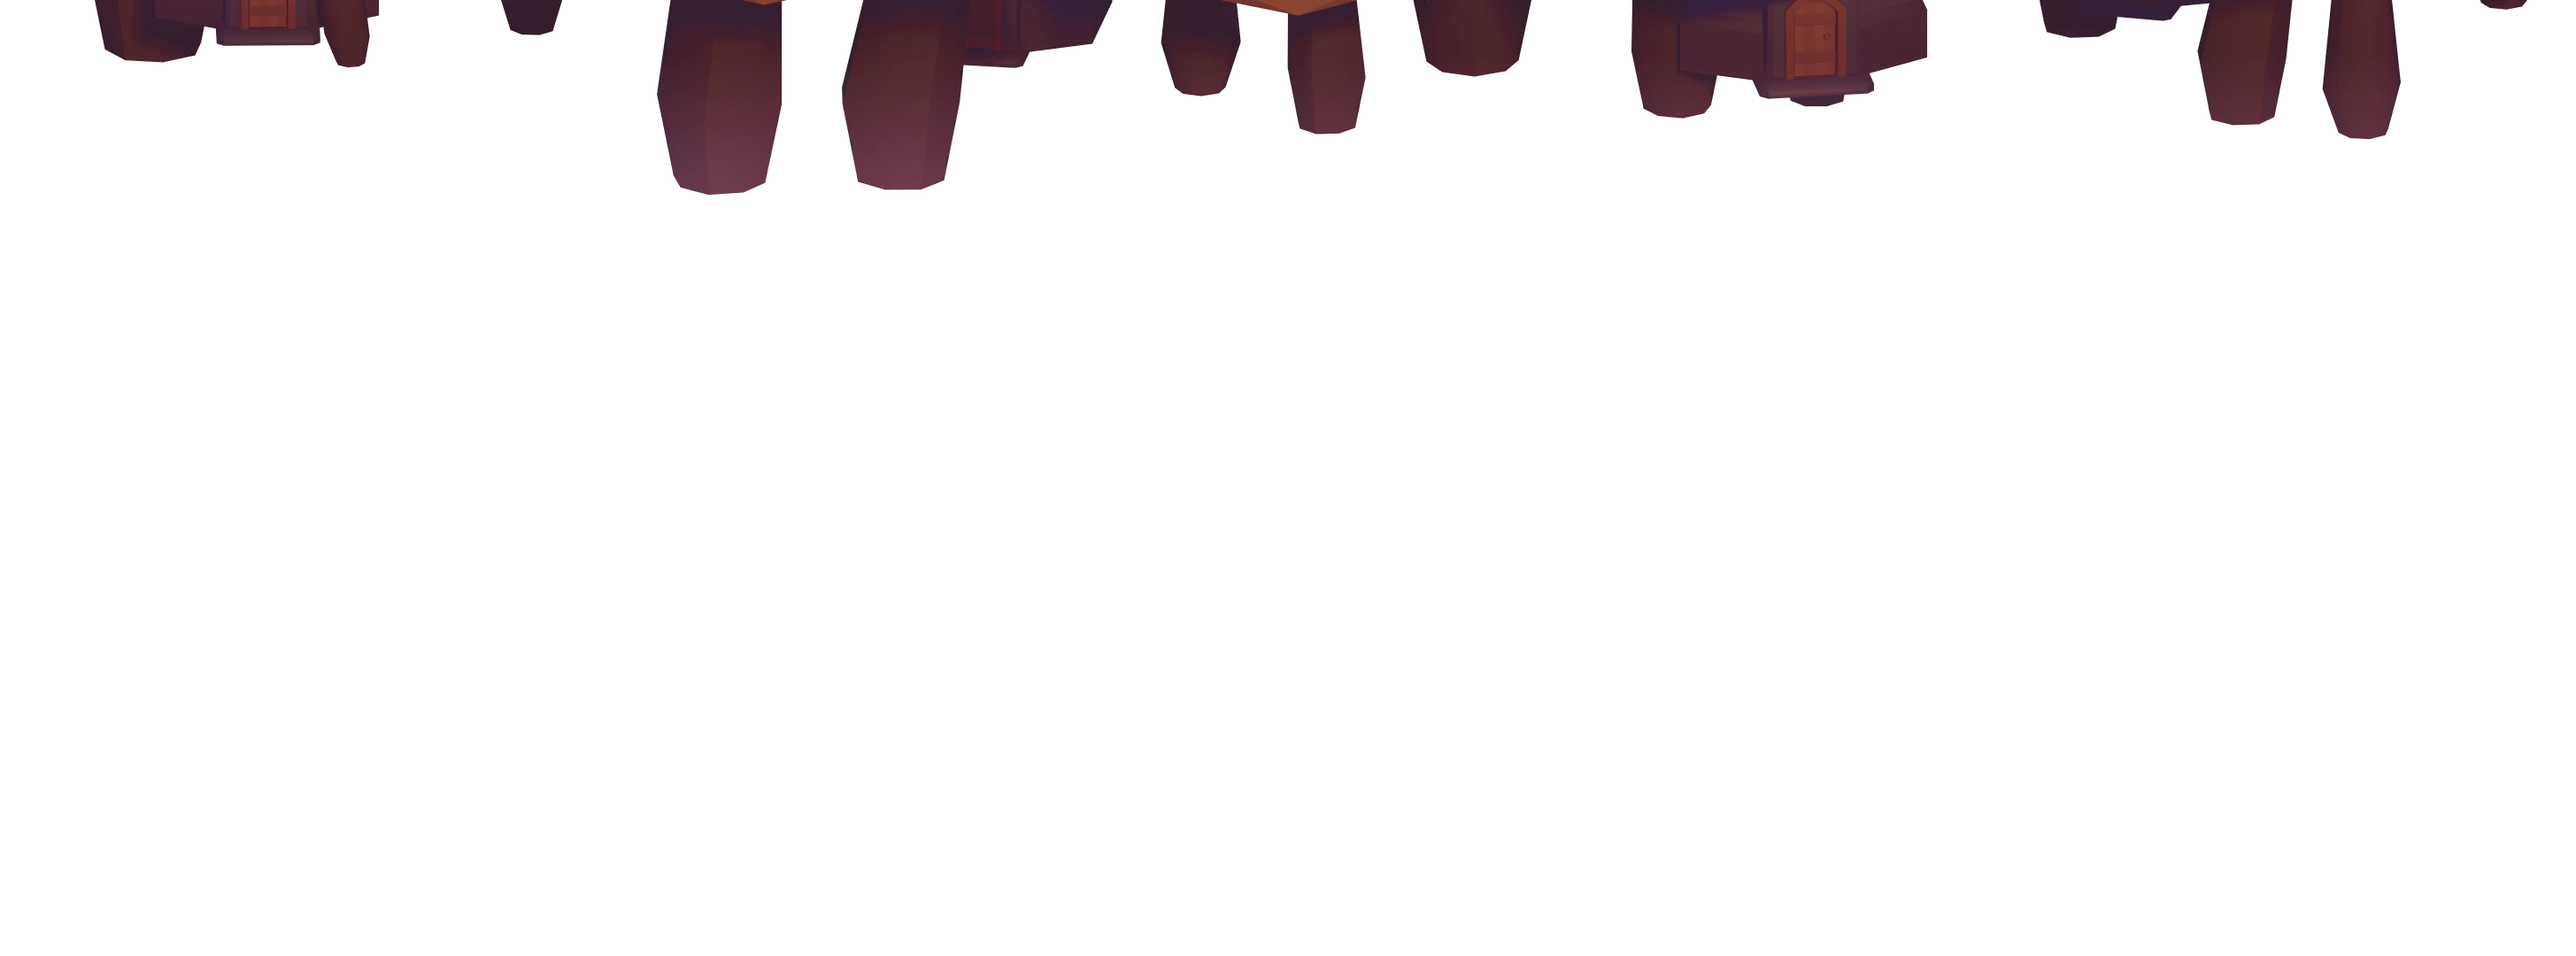
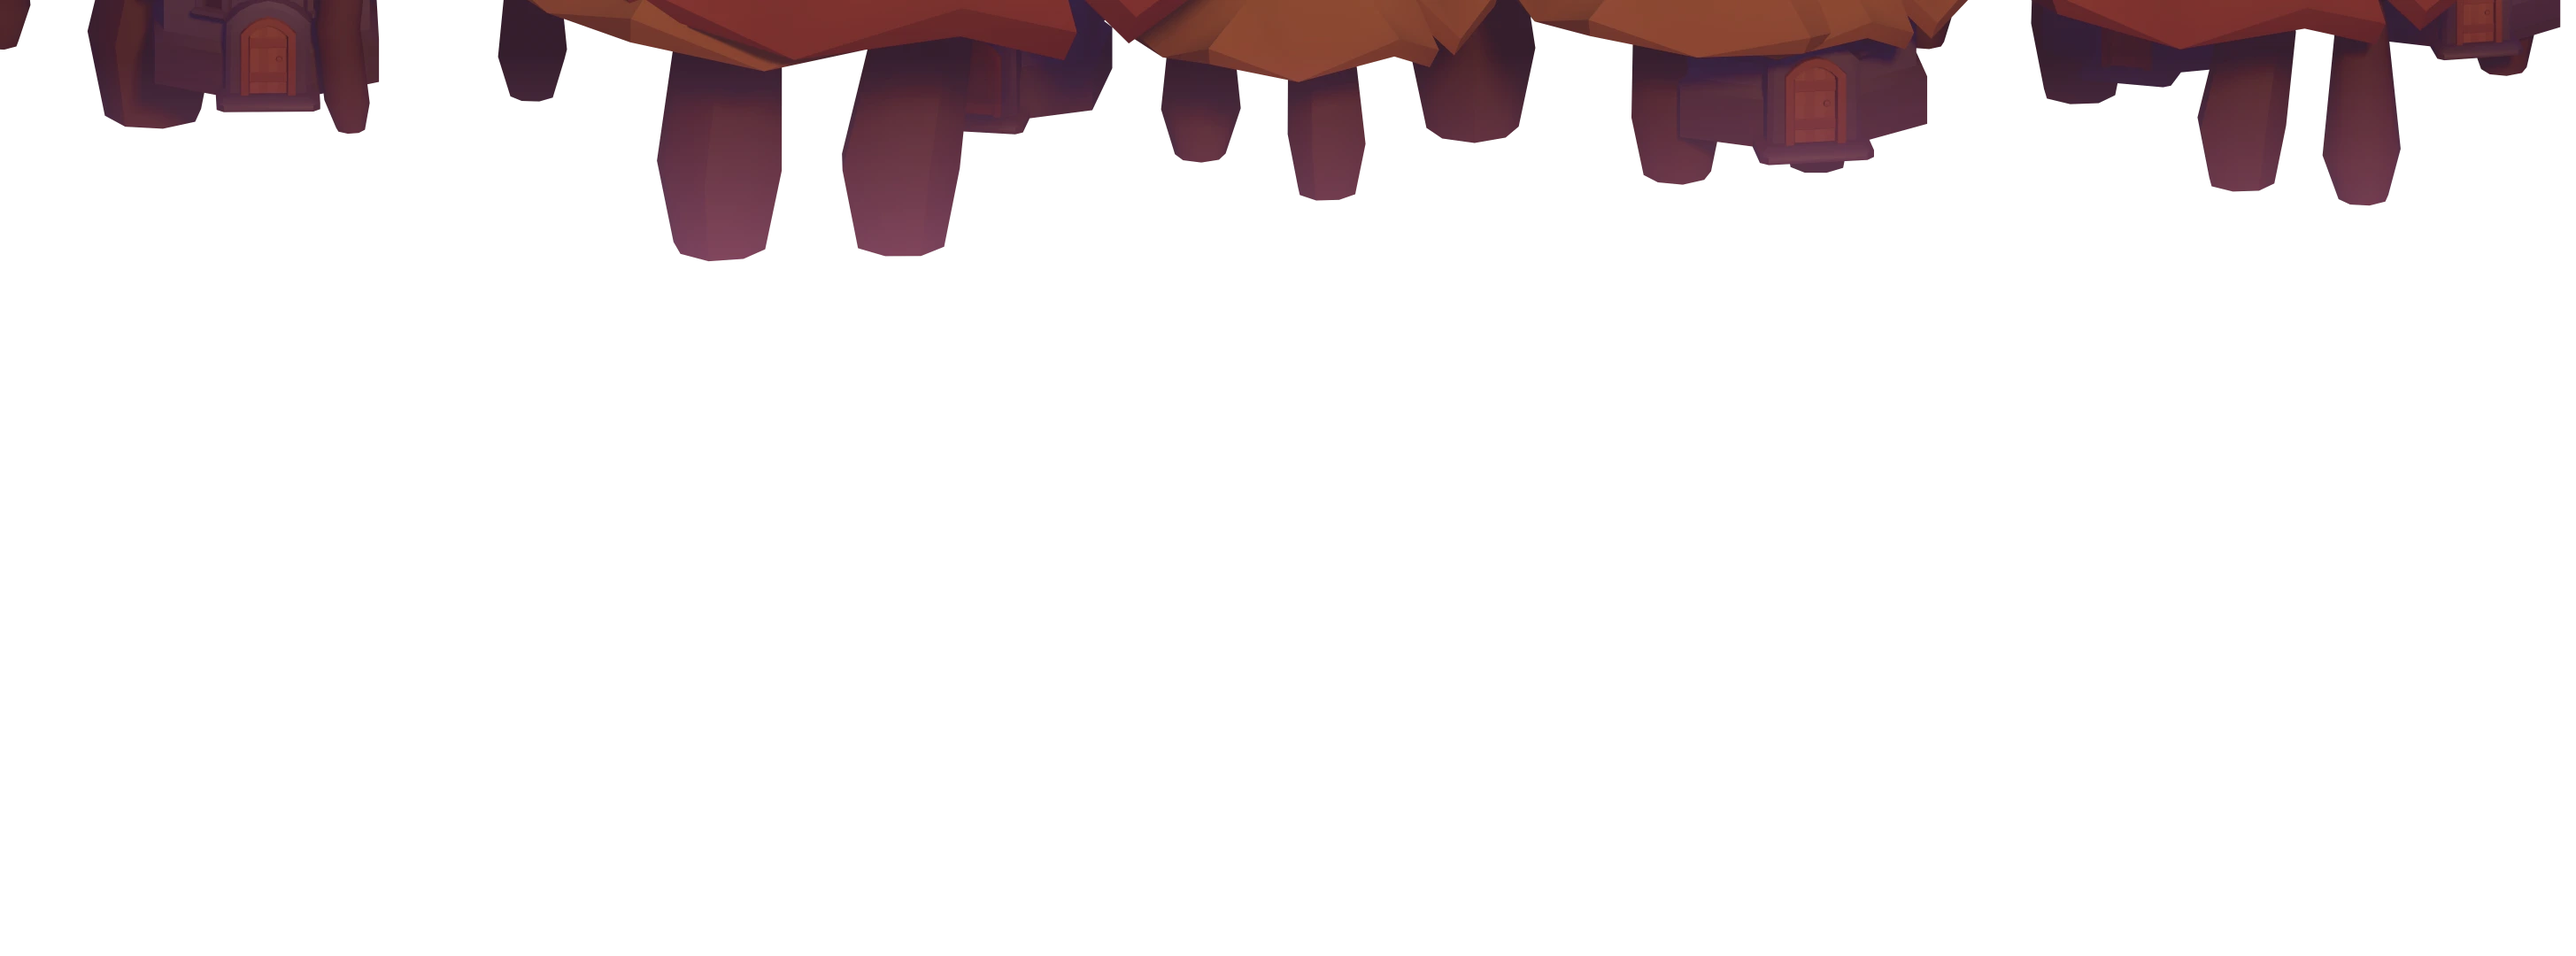
Courtyards: drop black front posts and barrels, keep low parapet; rebake

Changed region(s): [[0.1856, 0.0, 1.0, 0.2139], [0.0, 0.0, 0.1546, 0.1528], [0.2474, 0.1528, 0.3711, 0.275]]

diff --git a/tools/bake/src/scenes/courtyard.ts b/tools/bake/src/scenes/courtyard.ts
@@ -600,17 +600,11 @@ async function buildMain(v: Variant) {
 async function buildFront(v: Variant) {
   const root = sceneRoot();
   const R = rng(5);
-  // dark posts with banner staves near the camera (z = +7.5 => screen y ~ 712)
-  for (const x of [0.2, 17.0, 34.5]) {
-    const post = cyl(0.12, 0.14, 7, 0x1a1418, 6);
-    post.position.set(x, 3.5, 8.2);
-    root.add(post);
-  }
-  // low parapet and barrels along the bottom edge
+  // low parapet along the bottom edge only (posts and barrels read as black blobs over the field and HUD)
   const wall = box(WORLD_UNITS * 1.15, 0.9, 0.5, 0x211a22);
   wall.position.set(WORLD_UNITS / 2, 0.45, 10.6);
   root.add(wall);
-  for (let x = 2; x < 42; x += 5 + R() * 5) await put(root, `${DUN}barrel_large.gltf.glb`, x, 9.2, { s: 0.7, color: 0x3a2c30 });
+  void R;
   return {
     root,
     light: { sun: undefined, sky: { color: 0x655070, intensity: 0.8 }, ambient: { color: 0x302838, intensity: 0.5 } } as LightingSpec,
